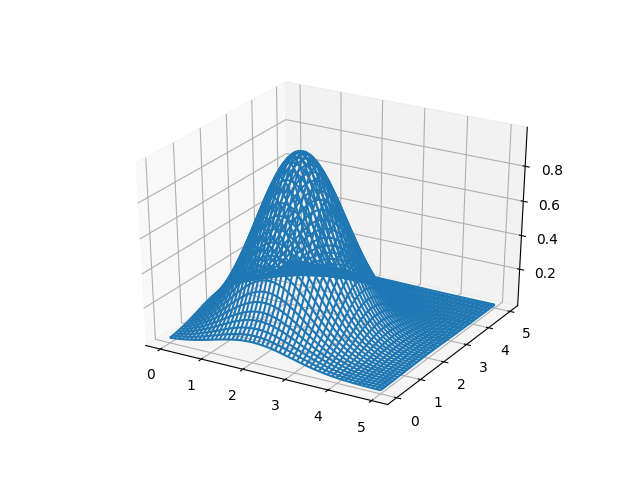
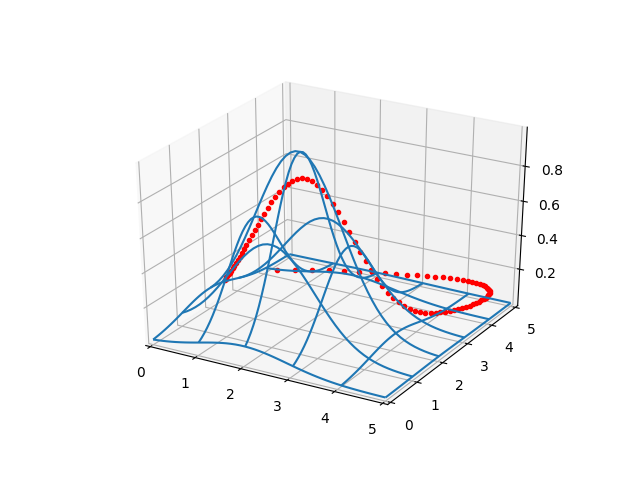
-

diff --git a/calc_multi/calc_multi_40_elev/elev4.md b/calc_multi/calc_multi_40_elev/elev4.md
@@ -17,7 +17,25 @@ zz = func(xx,yy)
 
 fig = plt.figure()
 ax = fig.gca(projection='3d')
-surf = ax.plot_wireframe(xx, yy, zz)
+ax.set_xlim(0,5)
+ax.set_ylim(0,5)
+surf = ax.plot_wireframe(xx, yy, zz,rstride=10, cstride=10)
+
+t = np.linspace(0,1.0,100)
+
+a1,a2,a3 = 1.5, 10.1, 4.0
+b1,b2,b3 = 0.3, 0.4, 30.3
+
+sx,sy=(1.0,1.0)
+ex,ey=(0.3,4.0)
+
+a4 = ex - sx - (a1+a2+a3)
+b4 = ey - sy - (b1+b2+b3)
+
+x = 1.0 + a1*t + a2*t**2 + a3*t**3 + a4*t**4 
+y = 1.0 + b1*t + b2*t**2 + b3*t**3 + b4*t**4
+
+ax.plot3D(x, y, func(x,y),'r.')
 
 plt.savefig('out1.png')
 ```
